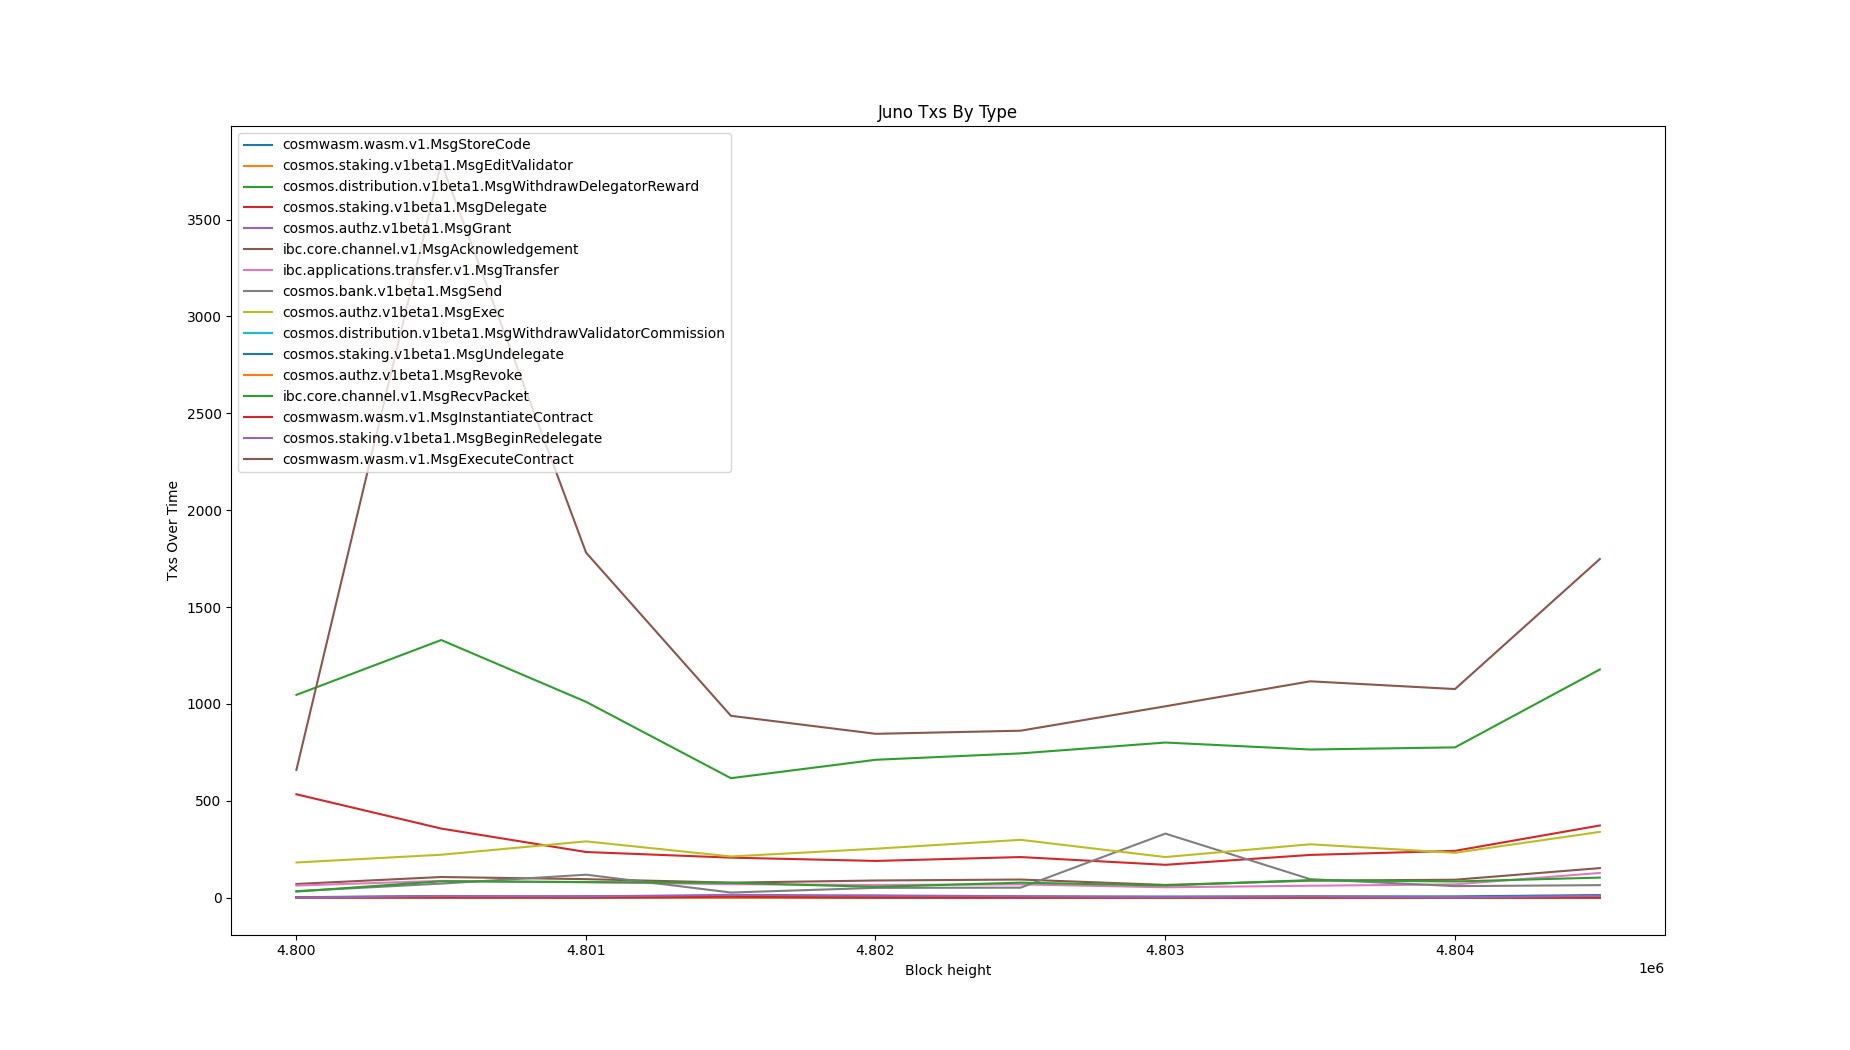
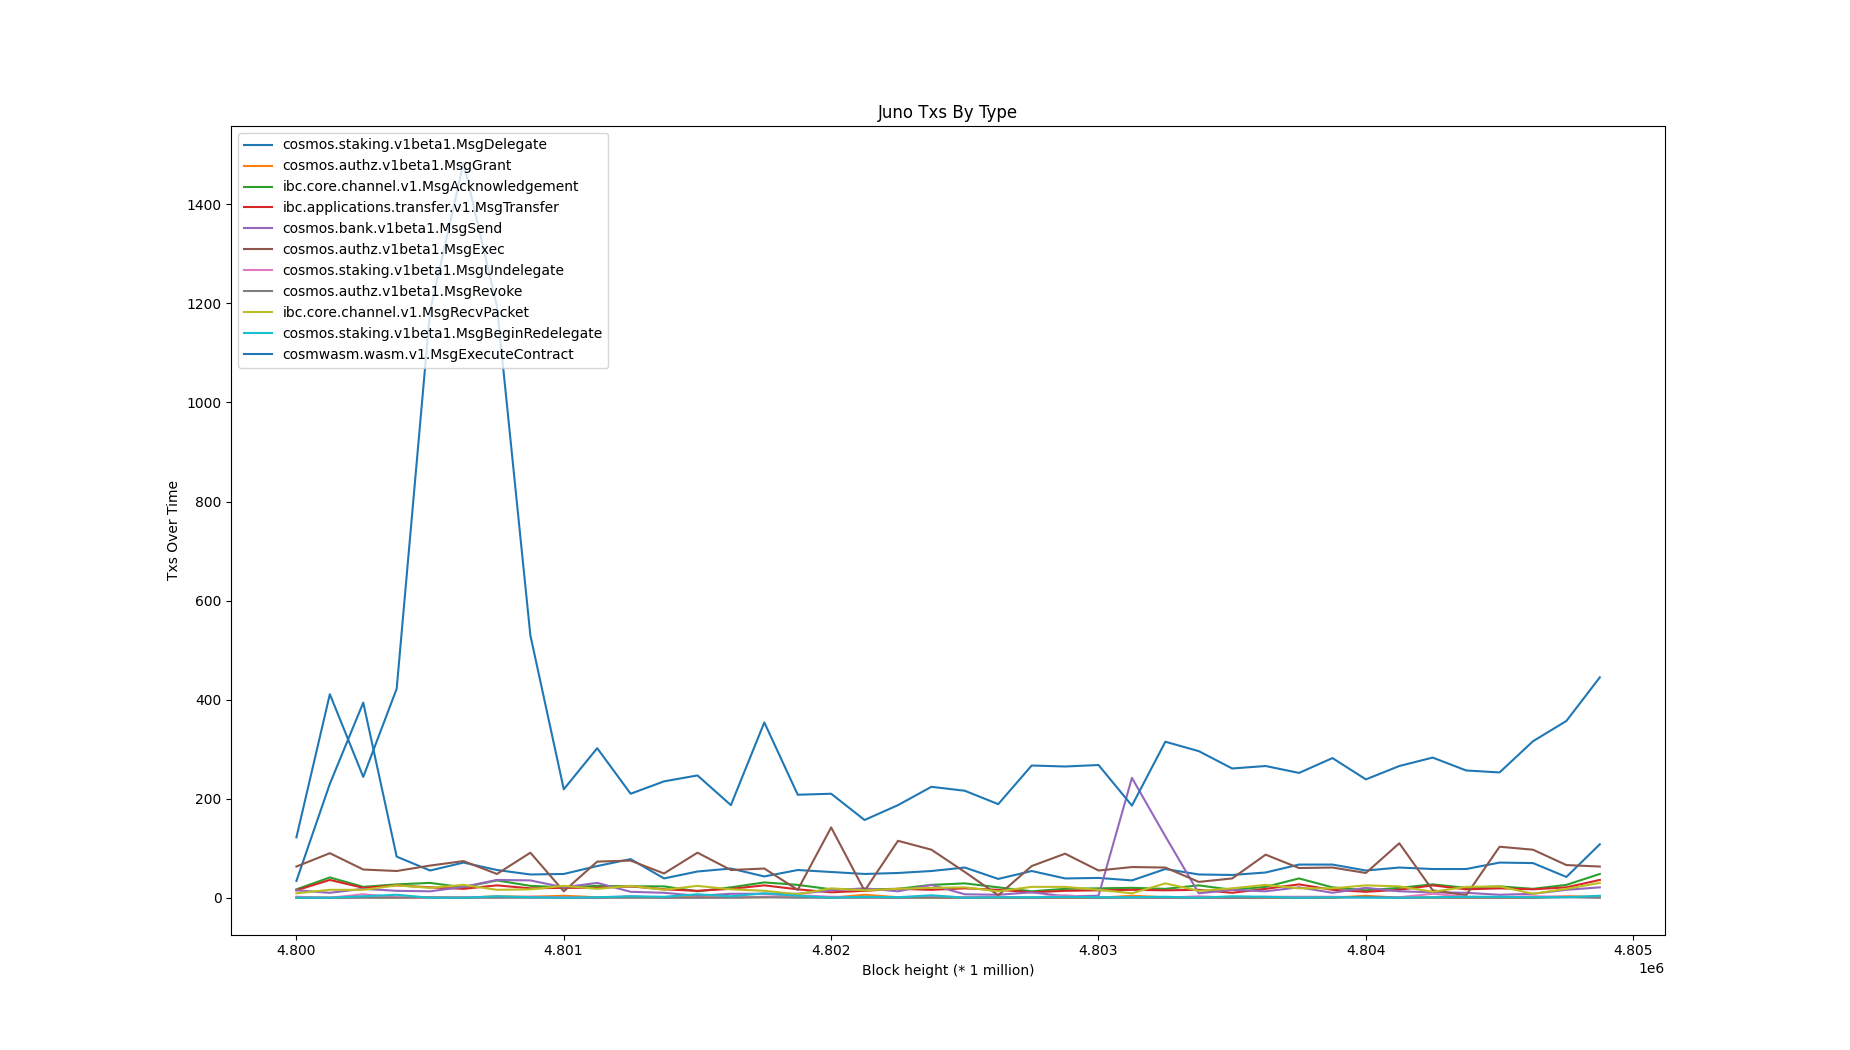
did sorting

diff --git a/step5_compare_all_msgs.py b/step5_compare_all_msgs.py
@@ -6,6 +6,28 @@ from cProfile import label
 import os, json
 import matplotlib.pyplot as plt
 
+# Comment out lines you do not want to show / count
+SHOW_SPECIFIC_MSGS = [
+    # "cosmwasm.wasm.v1.MsgStoreCode",
+    # "cosmos.staking.v1beta1.MsgEditValidator",
+    # "cosmos.distribution.v1beta1.MsgWithdrawDelegatorReward",
+    "cosmos.staking.v1beta1.MsgDelegate",
+    "cosmos.authz.v1beta1.MsgGrant",
+    "ibc.core.channel.v1.MsgAcknowledgement",
+    "ibc.applications.transfer.v1.MsgTransfer",
+    "cosmos.bank.v1beta1.MsgSend",
+    "cosmos.authz.v1beta1.MsgExec",
+    # "cosmos.distribution.v1beta1.MsgWithdrawValidatorCommission",
+    "cosmos.staking.v1beta1.MsgUndelegate",
+    "cosmos.authz.v1beta1.MsgRevoke",
+    "ibc.core.channel.v1.MsgRecvPacket",
+    # "cosmwasm.wasm.v1.MsgInstantiateContract",
+    "cosmos.staking.v1beta1.MsgBeginRedelegate",
+    "cosmwasm.wasm.v1.MsgExecuteContract"
+]
+# v = [v.replace(".json", "") for v in total_messages.keys()] # <- generate above with this
+# input(json.dumps(v, indent=4))
+
 # loop through all msgs folder
 current_dir = os.path.dirname(os.path.realpath(__file__))
 total_msgs_file = f"{current_dir}/json/total_messages.json"
@@ -51,18 +73,20 @@ with open(total_msgs_file, "w") as f:
     json.dump(total_messages, f)
 
 # exit()
-# TODO calu
 
 final_output = {}
-# lowlow = 4_450_000
-# highhigh = 4_850_000
-range_jumps = 5_000 # maybe take a % of the highest height - lowest height
+range_jumps = 5_000
+range_jumps = int((highest_height-lowest_height+1)*0.025) # maybe take a % of the highest height - lowest height
 
 for msg_type, heights_data in total_messages.items():
+    name = msg_type.replace(".json", "")
     # {'4801196': 1, '4801189': 1, '4800030': 1}
     # sorted_heights = sorted(v.keys(), key=lambda x: x[0])
     # print(sorted_heights)
     if len(heights_data.keys()) == 0:
+        continue
+
+    if name not in SHOW_SPECIFIC_MSGS:
         continue
 
     all_txs = {k: 0 for k in range(lowest_height, highest_height, range_jumps)}
@@ -71,19 +95,17 @@ for msg_type, heights_data in total_messages.items():
         # find the closest key to k
         closest_height = min(all_txs, key=lambda x:abs(x-int(height)))
         # print(closest)
-
         # add the # of txs to the closest key
         # final_output[closest_height] = final_output.get(closest_height, 0) + amt
         all_txs[closest_height] = all_txs.get(closest_height, 0) + amt
 
     # print(final_output)
     # exit()
-
-    name = msg_type.replace(".json", "")
+    
     plt.plot(all_txs.keys(), all_txs.values(), label=name)    
     plt.legend(loc='upper left')
     plt.title(f'Juno Txs By Type')
-    plt.xlabel('Block height')
+    plt.xlabel('Block height (* 1 million)')
     plt.ylabel('Txs Over Time')    
     
 fig = plt.gcf()
